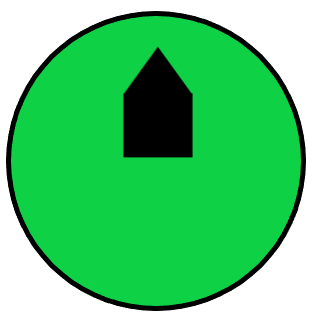
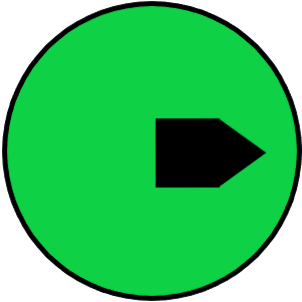
added bullet class, made player rotate towards cursor

Changed region(s): [[0.0, 0.0, 1.0, 1.0], [0.3874, 0.149, 0.894, 0.6258]]

diff --git a/Bullet.java b/Bullet.java
@@ -1,0 +1,25 @@
+import greenfoot.*;  // (World, Actor, GreenfootImage, Greenfoot and MouseInfo)
+
+/**
+ * Write a description of class bullet here.
+ * 
+ * @author Juan
+ * @version January 2024
+ */
+public class Bullet extends Actor
+{
+    public Bullet()
+    {
+        GreenfootImage bulletImage = new GreenfootImage("black square.png");
+        bulletImage.scale(5, 15);
+        this.setImage(bulletImage);
+    }
+    /**
+     * Act - do whatever the bullet wants to do. This method is called whenever
+     * the 'Act' or 'Run' button gets pressed in the environment.
+     */
+    public void act()
+    {
+        // Add your action code here.
+    }
+}

diff --git a/Guy.java b/Guy.java
@@ -37,6 +37,7 @@ public class Guy extends Actor
     {
         moveHorizontally();
         moveVertically();
+        mouseStuff();
     }
     
     
@@ -106,6 +107,15 @@ public class Guy extends Actor
         if(isGrounded && Greenfoot.isKeyDown("space"))
         {
             ySpeed -= jumpForce;
+        }
+    }
+    
+    public void mouseStuff()
+    {
+        MouseInfo mouse = Greenfoot.getMouseInfo();
+        if(mouse != null)
+        {
+            turnTowards(mouse.getX(), mouse.getY());
         }
     }
 }
